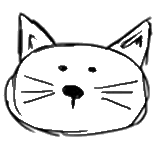
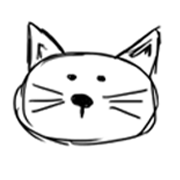
[spacecat] - Based on height instead of width

Changed region(s): [[0.0, 0.0625, 0.9688, 0.875], [0.5312, 0.4062, 0.625, 0.4688], [0.3438, 0.4062, 0.4375, 0.4688]]

diff --git a/spacecatthree/css/app.css b/spacecatthree/css/app.css
@@ -16,6 +16,6 @@
 }
 
 .menu-cell img {
-    width: 75% !important;
-    height: auto !important;
+    width: auto !important;
+    height: 30% !important;
 }
